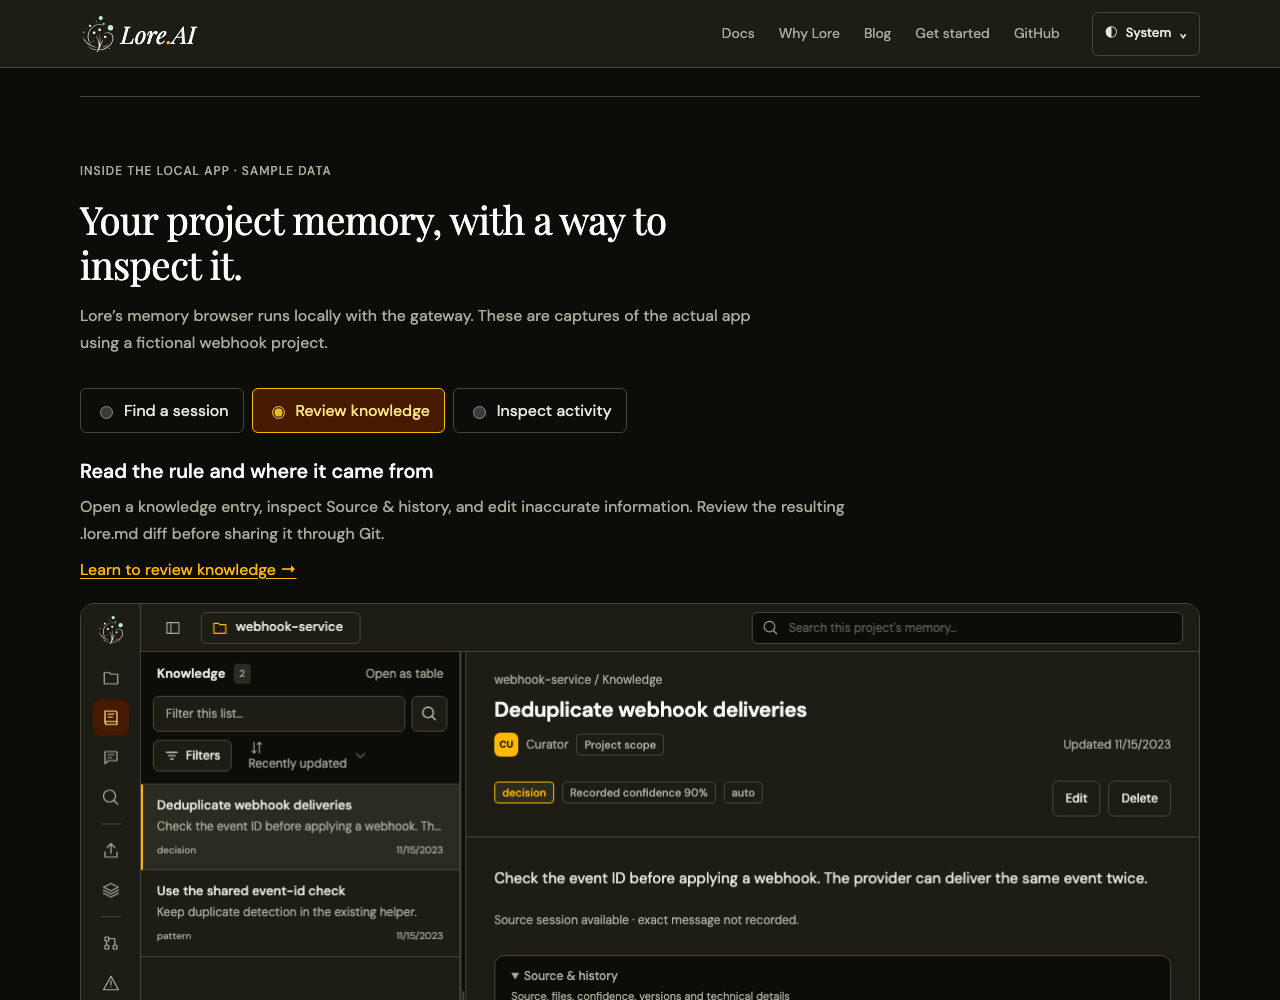
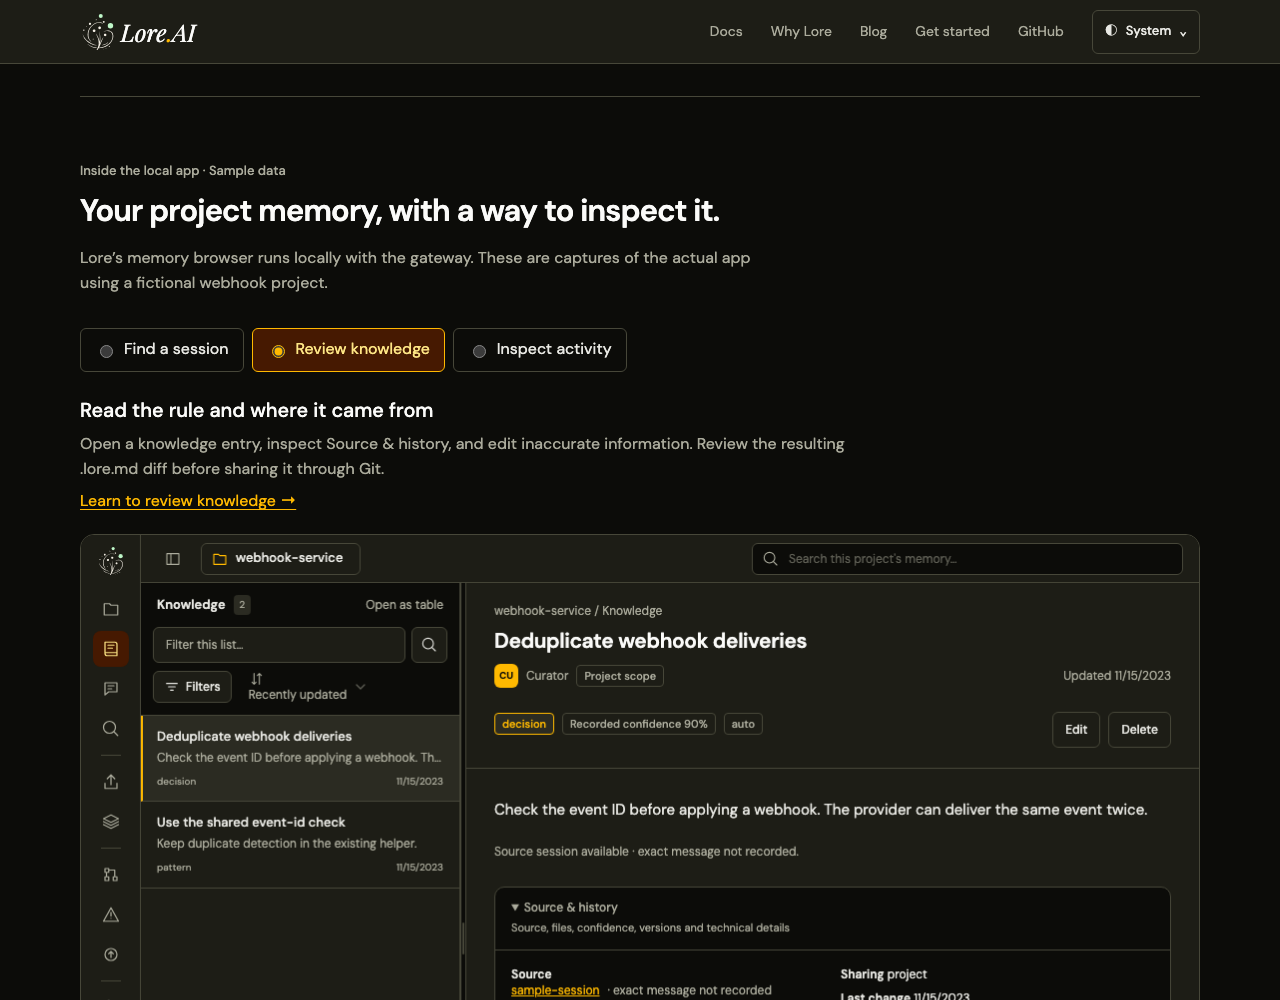
style(website): Match the local app's visual language

diff --git a/packages/website/public/theme.css b/packages/website/public/theme.css
@@ -16,32 +16,32 @@
 }
 *, *::before, *::after { box-sizing: border-box; }
 html { scroll-padding-top: 6rem; -webkit-text-size-adjust: 100%; }
-body { margin: 0; background: var(--bg); color: var(--text); font: 400 1rem/1.7 var(--sans); }
+body { margin: 0; background: var(--bg); color: var(--text); font: 400 1rem/1.55 var(--sans); }
 a { color: var(--accent); text-underline-offset: .2em; }
 a:hover { color: var(--accent-hover); }
 button, input { font: inherit; }
 h1, h2, h3, p, ol, ul, dl, blockquote { margin: 0; }
 h1, h2, h3 { color: var(--heading); }
-h1, h2 { font-family: var(--serif); font-weight: 400; line-height: 1.15; }
-h1 { font-size: clamp(2.25rem, 4.2vw, 3.75rem); letter-spacing: -.025em; }
-h1 em { color: var(--accent); font-style: normal; }
-h2 { font-size: clamp(1.75rem, 3vw, 2.5rem); letter-spacing: -.015em; }
+h1, h2 { font-family: var(--sans); font-weight: 600; line-height: 1.2; }
+h1 { font-size: clamp(2rem, 4vw, 3.25rem); letter-spacing: -.035em; }
+h1 em { color: inherit; font-style: normal; }
+h2 { font-size: clamp(1.5rem, 2.4vw, 2rem); letter-spacing: -.025em; }
 h3 { font-size: 1rem; line-height: 1.4; font-weight: 600; }
 code { font-family: ui-monospace, SFMono-Regular, Menlo, Consolas, monospace; font-size: .88em; overflow-wrap: anywhere; }
 .section { width: min(1120px, calc(100% - 3rem)); margin-inline: auto; padding-block: 4rem; }
 .section + .section { border-top: 1px solid var(--line); }
-.eyebrow { color: var(--muted); font-size: .75rem; font-weight: 500; letter-spacing: .09em; text-transform: uppercase; margin-bottom: 1rem; }
+.eyebrow { color: var(--muted); font-size: .8125rem; font-weight: 500; margin-bottom: .75rem; }
 .muted { color: var(--muted); }
 .small { font-size: .8125rem; line-height: 1.6; }
-.button { display: inline-flex; align-items: center; justify-content: center; gap: .75rem; min-height: 44px; padding: .65rem 1rem; border: 1px solid transparent; border-radius: var(--radius-control); font: 500 .9375rem/1.4 var(--sans); text-decoration: none; cursor: pointer; }
+.button { display: inline-flex; align-items: center; justify-content: center; gap: .75rem; min-height: 44px; padding: .65rem 1rem; border: 1px solid transparent; border-radius: var(--radius-control); font: 500 .875rem/1.4 var(--sans); text-decoration: none; cursor: pointer; }
 .button-primary { background: var(--accent); color: var(--accent-contrast); }
 .button-primary:hover { background: var(--accent-hover); color: var(--accent-contrast); }
 .button-secondary { border-color: var(--line); background: var(--surface); color: var(--text); }
 .button-secondary:hover { background: var(--chrome); color: var(--heading); }
 .button:disabled { cursor: wait; opacity: .65; }
 .text-link { display: inline-flex; align-items: center; min-height: 44px; font-weight: 500; }
-.top-nav { position: sticky; top: 0; z-index: 50; display: flex; align-items: center; justify-content: space-between; gap: 1rem; min-height: 68px; padding: .5rem max(1.5rem, calc((100% - 1120px) / 2)); background: var(--surface); border-bottom: 1px solid var(--line); }
-.header-actions { display: flex; align-items: center; gap: 2rem; }
+.top-nav { position: sticky; top: 0; z-index: 50; display: flex; align-items: center; justify-content: space-between; gap: 1rem; min-height: 64px; padding: .5rem max(1.5rem, calc((100% - 1120px) / 2)); background: var(--surface); border-bottom: 1px solid var(--line); }
+.header-actions { display: flex; align-items: center; gap: 1rem; }
 .logo { display: inline-flex; align-items: center; gap: .3rem; color: var(--heading); line-height: 1; text-decoration: none; flex-shrink: 0; }
 .logo-img { display: block; }
 .logo-text { font: italic 400 1.5rem/1 var(--serif); }
@@ -53,7 +53,7 @@ code { font-family: ui-monospace, SFMono-Regular, Menlo, Consolas, monospace; fo
 .nav-mobile-panel .button { width: 100%; margin-top: .5rem; }
 .menu-secondary { display: block; padding: .5rem .75rem; }
 .home-hero { display: grid; grid-template-columns: 1.1fr 1fr; align-items: start; gap: 4rem; padding-top: 4.5rem; }
-.hero-desc { color: var(--muted); font-size: 1.0625rem; line-height: 1.7; max-width: 58ch; margin-top: 1.5rem; }
+.hero-desc { color: var(--muted); font-size: 1rem; line-height: 1.65; max-width: 50ch; margin-top: 1.25rem; }
 .hero-actions { display: flex; align-items: center; flex-wrap: wrap; gap: .75rem 1.5rem; margin-top: 1.75rem; }
 .compatibility { margin-block: 1.25rem; font-size: .8125rem; color: var(--muted); }
 .install-box { margin-block: 1.5rem .75rem; }
@@ -144,7 +144,7 @@ th { font-weight: 500; }
 }
 
 /* Camp landmarks share their geometry and camera with the server-rendered fallback. */
-.memory-camp { padding:0; border:0; background:transparent; box-shadow:none;
+.memory-camp { padding:1.25rem; border:1px solid var(--line); background:var(--surface); box-shadow:none;
  --camp-ground:#94a481; --camp-earth:#a99d76; --camp-earth-side:#827755; --camp-moss:#6e8757;
  --camp-wood:#8f7149; --camp-wood-light:#b29363; --camp-wood-dark:#66563c; --camp-stone:#c5c6b4; --camp-stone-dark:#929e87;
  --camp-fabric:#d3d2aa; --camp-cloth:#768854; --camp-paper:#f0e4c0; --camp-gold:#b78c43; --camp-fire:#d89c48; --camp-char:#394535; --camp-face:#d6b692;
@@ -155,7 +155,8 @@ th { font-weight: 500; }
  --camp-fabric:#c3c3a0; --camp-cloth:#839965; --camp-paper:#eee0b6; --camp-gold:#d8b36b; --camp-fire:#e2ad5a; --camp-char:#273321; --camp-face:#d6b894;
  --camp-light:#f8e6c0; --camp-sky:#c5d5b5; --camp-shadow:#000000;
  }
-.memory-camp h2 { font-size:1.5rem; }
+.memory-camp h2 { font-size:1.125rem; letter-spacing:-.015em; }
+.memory-camp > .eyebrow { font-size:.75rem; margin-bottom:.375rem; }
 .camp-art { position:relative; width:100%; aspect-ratio:3 / 2; touch-action:pan-y pinch-zoom; user-select:none; }
 .camp-art svg,.camp-art canvas { display:block; position:absolute; inset:0; width:100%; height:100%; }
 .camp-art[data-renderer="webgl"] .camp-fallback { visibility:hidden; }
@@ -178,9 +179,9 @@ th { font-weight: 500; }
 .memory-stage-controls { display: flex; flex-wrap: wrap; border: 0; border-bottom: 1px solid var(--line); padding: 0; margin: .75rem 0 0; }
 .memory-stage-controls label { display: flex; flex: 1; align-items: center; justify-content: center; min-height: 44px; border-bottom: 2px solid transparent; padding: .5rem .375rem; cursor: pointer; font-size: .8125rem; }
 .memory-stage-controls input { position: absolute; width: 1px; height: 1px; opacity: 0; }
-.memory-stage-controls label:has(:checked) { border-bottom-color: var(--accent); color: var(--text); }
+.memory-stage-controls label:has(:checked) { border-bottom-color: var(--accent); color: var(--text); background:var(--accent-soft); }
 .memory-stage-controls label:has(:focus-visible) { outline: 2px solid var(--accent); outline-offset: -4px; }
-.memory-stage-panels { display: grid; padding-block: 1rem; }
+.memory-stage-panels { display: grid; padding-block: 1rem; min-width:0; }
 .memory-stage-panels section { grid-area: 1 / 1; visibility: hidden; }
 .memory-stage-panels p { font-size: .875rem; color: var(--muted); margin-top: .5rem; }
 .memory-camp:has(input[value="conversation"]:checked) #memory-stage-conversation,
@@ -210,16 +211,18 @@ th { font-weight: 500; }
 @media(max-width:600px) { .home-hero { padding-block:2rem; } .tour-picker { display:grid;grid-template-columns:1fr;gap:.375rem; } }
 
 /* A quiet overview; detailed choices live in the tour and installation guide. */
-.home-page .section { padding-block: 4.5rem; }
-.home-page .home-hero { padding-block: 3.5rem 4rem; }
-.product-spotlight { display: grid; grid-template-columns: .75fr 1.25fr; align-items: center; gap: 3.5rem; }
+.home-page .section { padding-block: 3.5rem; }
+.home-page .home-hero { padding-block: 3rem; gap:3rem; grid-template-columns:1fr 1fr; }
+.home-page .hero-copy { padding-top:2rem; }
+.product-spotlight { display: grid; grid-template-columns: .75fr 1.25fr; align-items: center; gap: 2.5rem; background:var(--surface); border:1px solid var(--line); border-radius:var(--radius-card); padding-inline:2rem; }
 .spotlight-copy p:not(.eyebrow) { color: var(--muted); margin-block: 1.25rem .75rem; }
 .spotlight-image { margin: 0; min-width: 0; }
 .spotlight-image figcaption { margin-top: .75rem; }
 .home-workflow .workflow { margin-bottom: 1rem; }
 .home-availability { color: var(--muted); font-size: .8125rem; margin-top: 2rem; }
 .home-availability strong { color: var(--text); font-weight: 500; }
-.home-page #questions { max-width: 800px; }
+.home-page #questions { display:grid; grid-template-columns:.75fr 1.25fr; gap:2.5rem; }
+.home-page #questions .section-heading { margin-bottom:0; }
 .home-start { display: flex; flex-wrap: wrap; align-items: center; justify-content: space-between; gap: 1.5rem 2rem; }
 .home-start > div:first-child { max-width: 60ch; }
 .home-start p { color: var(--muted); margin-top: .75rem; }
@@ -228,5 +231,5 @@ th { font-weight: 500; }
 .tour-intro { padding-bottom: 2.5rem; }
 .tour-intro h1 { margin-top: 1.25rem; }
 .tour-intro p { color: var(--muted); max-width: 65ch; margin-top: 1.25rem; }
-@media (max-width: 900px) { .product-spotlight { grid-template-columns: 1fr; gap: 2rem; } .spotlight-copy { max-width: 55ch; } }
-@media (max-width: 600px) { .home-page .section { padding-block: 3rem; } .home-page .home-hero { padding-block: 2rem 3rem; } .home-resources { gap: 0; } .home-start { align-items: flex-start; } }
+@media (max-width: 900px) { .home-page .home-hero { grid-template-columns:1fr; gap:2rem; } .home-page .hero-copy { padding-top:0; } .product-spotlight, .home-page #questions { grid-template-columns: 1fr; gap: 2rem; } .spotlight-copy { max-width: 55ch; } }
+@media (max-width: 600px) { .home-page .section { padding-block: 3rem; } .home-page .home-hero { padding-block: 2rem 3rem; } .home-page .product-spotlight { padding:1.25rem; } .home-resources { gap: 0; } .home-start { align-items: flex-start; } }

diff --git a/packages/website/src/styles/blog.css b/packages/website/src/styles/blog.css
@@ -13,27 +13,27 @@
 .blog-back { display: inline-flex; align-items: center; min-height: 44px; }
 .blog-post {
   width: min(720px, calc(100% - 3rem));
-  padding: 5rem 0 7rem;
+  padding: 2.5rem 0 4rem;
 }
 
 .blog-post header {
-  margin: 2rem 0 3.5rem;
+  margin: 1.5rem 0 2rem;
 }
 
 .blog-post h1 {
-  font-size: clamp(2.4rem, 5vw, 4rem);
-  line-height: 1.08;
+  font-size: clamp(2rem, 4vw, 3rem);
+  line-height: 1.15;
 }
 
 .blog-post .blog-subtitle {
   margin: .8rem 0 0;
   max-width: none;
-  font-family: var(--serif);
-  font-style: italic;
+  font-family: var(--sans);
+  font-style: normal;
   font-weight: 400;
-  font-size: clamp(1.3rem, 3vw, 1.9rem);
+  font-size: clamp(1.0625rem, 2vw, 1.25rem);
   line-height: 1.2;
-  color: var(--heading-accent);
+  color: var(--muted);
 }
 
 .blog-post time {
@@ -73,18 +73,18 @@
 
 .blog-prose h2 {
   margin: 2.8rem 0 1rem;
-  font-family: var(--serif);
-  font-weight: 500;
-  font-size: 1.75rem;
+  font-family: var(--sans);
+  font-weight: 600;
+  font-size: 1.5rem;
   line-height: 1.2;
   color: var(--heading);
 }
 
 .blog-prose h3 {
   margin: 2.2rem 0 .8rem;
-  font-family: var(--serif);
+  font-family: var(--sans);
   font-weight: 500;
-  font-size: 1.3rem;
+  font-size: 1.125rem;
   line-height: 1.25;
   color: var(--heading);
 }
@@ -124,9 +124,9 @@
   padding: .4rem 0 .4rem 1.3rem;
   border-left: 3px solid var(--eyebrow);
   color: var(--emphasis);
-  font-family: var(--serif);
-  font-style: italic;
-  font-size: 1.45rem;
+  font-family: var(--sans);
+  font-style: normal;
+  font-size: 1.05rem;
   line-height: 1.3;
 }
 

diff --git a/packages/website/public/controls.css b/packages/website/public/controls.css
@@ -9,10 +9,10 @@
 .theme-options button[aria-pressed="true"] { background: var(--accent-soft); color: var(--accent-soft-text); }
 :where(a, button, input, select, textarea, summary, [tabindex]):focus-visible { outline: 2px solid var(--accent); outline-offset: 3px; }
 ::selection { background: var(--accent-soft); color: var(--accent-soft-text); }
-.primary-nav ul { display: flex; align-items: center; flex-wrap: wrap; gap: .25rem 1.5rem; list-style: none; padding: 0; margin: 0; }
-.primary-nav a { display: inline-flex; align-items: center; min-height: 44px; color: var(--muted); font-size: .875rem; text-decoration: none; }
-.primary-nav a:hover { color: var(--accent); }
-.primary-nav a[aria-current] { color: var(--heading); text-decoration: underline; text-decoration-color: var(--accent); text-decoration-thickness: 2px; text-underline-offset: .5em; }
+.primary-nav ul { display: flex; align-items: center; flex-wrap: wrap; gap: .25rem .25rem; list-style: none; padding: 0; margin: 0; }
+.primary-nav a { display: inline-flex; align-items: center; min-height: 44px; padding:.5rem .75rem; border-radius:var(--radius-control); color: var(--muted); font-size: .875rem; text-decoration: none; }
+.primary-nav a:hover { color: var(--heading); background:var(--chrome); }
+.primary-nav a[aria-current] { color:var(--accent-soft-text); background:var(--accent-soft); }
 .primary-nav-mobile ul { display: block; }
 .primary-nav-mobile a { display: flex; padding-inline: .75rem; }
 .primary-nav-mobile a:hover { background: var(--chrome); }

diff --git a/packages/website/src/styles/starlight.css b/packages/website/src/styles/starlight.css
@@ -64,8 +64,9 @@
 .hero h1,
 .sl-markdown-content h1,
 .sl-markdown-content h2 {
-  font-family: "Playfair Display", Georgia, serif;
-  font-weight: 400;
+  font-family: var(--sl-font);
+  font-weight: 600;
+  letter-spacing: -.025em;
 }
 
 /* Mermaid diagrams (architecture page). Center, contain, and let wide
@@ -105,7 +106,7 @@
 
 /* Task documentation uses the same functional typography as the local app. */
 :root { --sans:"DM Sans Variable","DM Sans",sans-serif;--serif:"Playfair Display",Georgia,serif; }
-.sl-markdown-content :is(h1,h2,h3) { font-family:var(--sans);font-weight:500;letter-spacing:-.015em; }
+.sl-markdown-content :is(h1,h2,h3) { font-family:var(--sans);font-weight:600;letter-spacing:-.015em; }
 .sl-markdown-content h2 { font-size:1.5rem;line-height:1.3;margin-top:2rem; }
 .sl-markdown-content h3 { font-size:1.125rem;line-height:1.4; }
 .sl-markdown-content { line-height:1.65; }
@@ -120,3 +121,6 @@
 
 /* Keep prose sibling margins out of the setup choice grid. */
 .sl-markdown-content .agent-setup .setup-picker > label { margin:0; }
+
+/* Document titles follow the local app’s functional heading style. */
+.content-panel h1 { font-family:var(--sl-font);font-weight:600;font-size:clamp(1.75rem,3vw,2.25rem);letter-spacing:-.025em;line-height:1.2; }

diff --git a/packages/website/test/browser/product-journey.spec.ts b/packages/website/test/browser/product-journey.spec.ts
@@ -175,10 +175,19 @@ test("documentation copy actions recover from a denied clipboard", async ({
 test("documentation header search and navigation never overlap at intermediate widths", async ({
   page,
 }) => {
-  for (const width of [900, 1024, 1280]) {
+  for (const width of [820, 834, 900, 1024, 1280]) {
     await page.setViewportSize({ width, height: 900 });
     await page.goto("/docs/install/");
     const header = page.locator(".docs-site-header");
+    const headerBox = await page.locator("header").first().boundingBox();
+    for (const control of await header.locator("a, button, summary").all()) {
+      if (!(await control.isVisible())) continue;
+      const box = await control.boundingBox();
+      expect(box!.y).toBeGreaterThanOrEqual(headerBox!.y - 1);
+      expect(box!.y + box!.height).toBeLessThanOrEqual(
+        headerBox!.y + headerBox!.height + 1,
+      );
+    }
     const controls = header.locator(
       ".logo, .docs-primary, site-search, .docs-controls",
     );

diff --git a/docs/superpowers/plans/2026-10-27-website-product-journey.md b/docs/superpowers/plans/2026-10-27-website-product-journey.md
@@ -99,3 +99,24 @@ restoring the shared Why Lore navigation styles. Earlier broader root-test
 limitations remain unchanged. Site builds must run sequentially: a concurrent
 prefix build caused transient 404s in an earlier browser run; the isolated final
 run passed.
+
+
+## Follow-up: align the website with the local app
+
+The user identified a visual mismatch with the app UI from the earlier PR.
+The palette already matches the owning app CSS, but oversized serif headings and
+editorial spacing made the website feel unrelated. Use the app’s functional DM
+Sans headings and neutral text hierarchy across public pages, articles, and docs;
+keep serif for the wordmark. Frame the camp and product preview with the app’s
+existing surface, line, and radius roles. Use compact navigation selection fills
+and sentence-case labels. Preserve the short homepage, camp geometry, accessible
+controls, existing content, and all setup/help destinations.
+
+Verification for app-style alignment: 254 browser tests passed with 6 conditional
+skips, including the expanded tablet header containment check. The header defect
+reproduced before the fix; the final search-button constraint and non-wrapping nav
+fit the outer header at 820/834/900/1024/1280px. All 14 website unit tests passed.
+Workspace typechecks, lint, formatting, Astro checks, and internal HTTP link
+validation passed. Correctness/security reviews found no remaining scoped blocker.
+No app production source, camp scene/controller, dependencies, or data flow changed;
+prior broader root-suite limitations remain documented.

diff --git a/packages/website/README.md b/packages/website/README.md
@@ -60,6 +60,14 @@ The renderer supports touch scrolling, interrupted travel, theme changes, contex
 restoration and resource disposal. Geometry and browser tests cover framing,
 projection, landmark selection, finite animation and failure paths.
 
+## Visual language
+
+Public pages, articles, and docs use the local app’s functional DM Sans headings,
+neutral title colors, olive surfaces, amber actions, subtle borders, and 6–14px
+control/pane radii. Playfair is reserved for the wordmark. The camp retains its
+approved geometry and native controls inside an app-like surface; styling must not
+change the art’s aspect ratio or picking coordinates.
+
 ## Product journey and documentation
 
 The homepage keeps the adventurer camp and one actual-app preview, with a concise

diff --git a/docs/website-ui/README.md b/docs/website-ui/README.md
@@ -1,7 +1,10 @@
 # Website UI and first-use journey
 
 The website uses the local memory browser’s olive foundation, amber accents and
-self-hosted fonts. The first-use flow now leads with concrete product copy,
+self-hosted fonts. Functional headings use DM Sans at medium/semibold weights,
+with neutral titles, bounded panes, subtle borders, and compact selected navigation
+states drawn from the local app. Serif lettering is reserved for the brand mark.
+The first-use flow now leads with concrete product copy,
 installation and a clearly fictional memory example. Shared navigation and compact
 native theme menus give every section a consistent structure.
 
